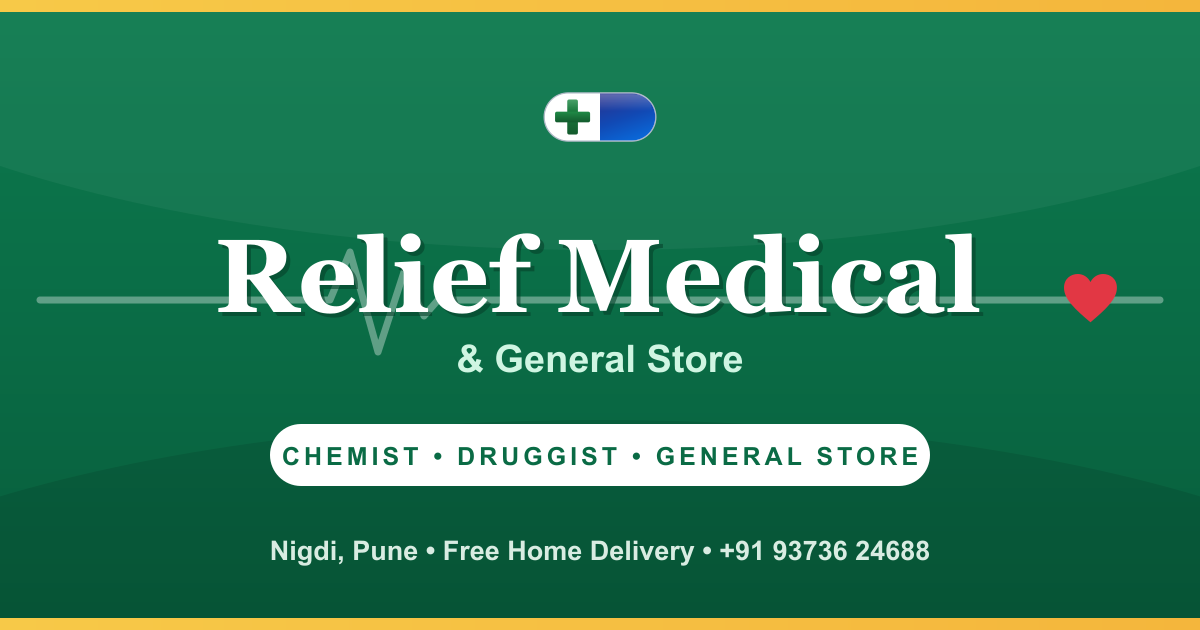
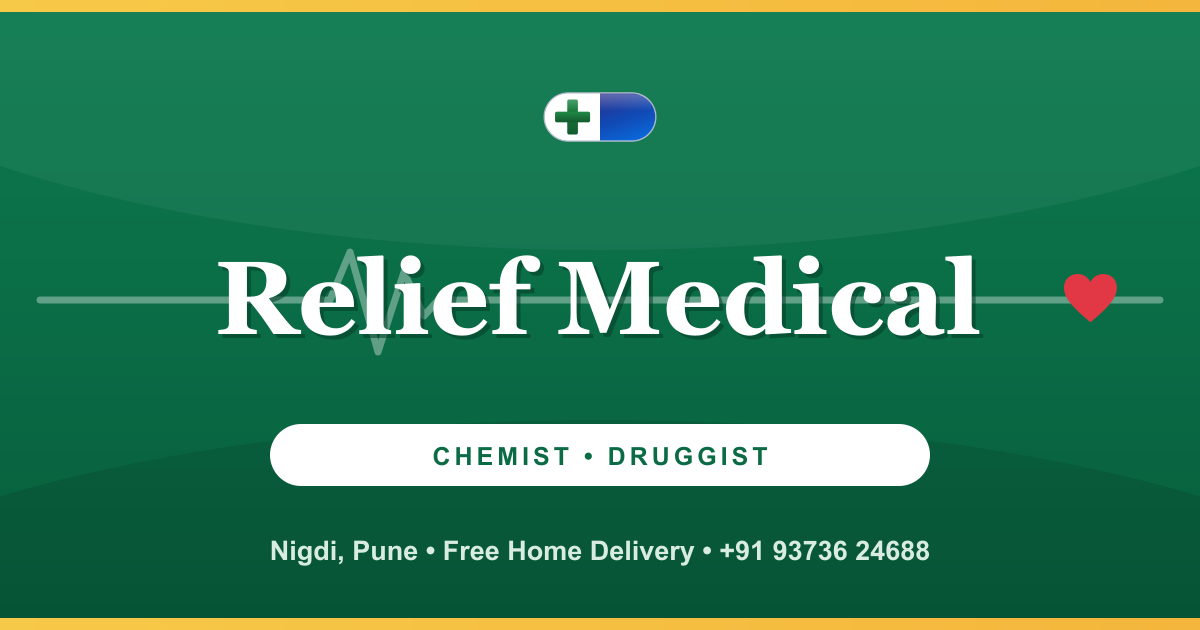
Drop General Store from name; sharpen SEO subtitle
Client feedback: business name should read as just "Relief Medical"
everywhere, not "Relief Medical & General Store".

- BUSINESS.name/fullName now just "Relief Medical"; tagline trimmed
  to "Chemist • Druggist"; removed the now-unused nameSuffix field
- FrontCard: dropped the empty suffix line under the hero name and
  tightened the spacing to the divider so nothing looks gappy
- index.html: title, description, OG/Twitter tags and JSON-LD all
  updated; title/description rewritten into a proper sentence
  ("Relief Medical | Trusted Chemist & Druggist in Nigdi, Pune")
  instead of the old "Nigdi Pune" fragment; Maps query string
  simplified to match the new name
- vite.config.js PWA manifest name/description updated
- scripts/gen-icons.mjs: removed the "& General Store" / "GENERAL
  STORE" text baked into the OG banner artwork, recentered the title;
  regenerated public/og-image.png and all icons from the new SVG
- README updated to match

Changed region(s): [[0.185, 0.3619, 0.8325, 0.6032], [0.2467, 0.6937, 0.7708, 0.754]]

diff --git a/index.html b/index.html
@@ -6,43 +6,43 @@
     <meta name="theme-color" content="#2E3192" />
 
     <!-- ================= SEO ================= -->
-    <title>Relief Medical & General Store | Nigdi Pune</title>
+    <title>Relief Medical | Trusted Chemist & Druggist in Nigdi, Pune</title>
     <meta
       name="description"
-      content="Trusted Chemist, Druggist & General Store in Nigdi, Pune offering genuine medicines, healthcare products, baby care, cosmetics and free home delivery."
+      content="Relief Medical is a trusted chemist and druggist in Nigdi, Pune, offering genuine medicines, healthcare products, baby care, cosmetics and free home delivery."
     />
     <meta
       name="keywords"
       content="chemist Nigdi, medical store Pune, pharmacy Pradhikaran, druggist Nigdi, medicines home delivery Pune, Relief Medical, Relief Medical Business Card"
     />
-    <meta name="author" content="Relief Medical & General Store" />
+    <meta name="author" content="Relief Medical" />
     <link rel="canonical" href="https://www.reliefmedicalbusinesscard.com/" />
 
     <!-- OpenGraph -->
     <meta property="og:type" content="business.business" />
     <meta property="og:url" content="https://www.reliefmedicalbusinesscard.com/" />
-    <meta property="og:title" content="Relief Medical & General Store | Nigdi Pune" />
+    <meta property="og:title" content="Relief Medical | Trusted Chemist & Druggist in Nigdi, Pune" />
     <meta
       property="og:description"
-      content="Trusted Chemist, Druggist & General Store in Nigdi, Pune offering genuine medicines, healthcare products, baby care, cosmetics and free home delivery."
+      content="Relief Medical is a trusted chemist and druggist in Nigdi, Pune, offering genuine medicines, healthcare products, baby care, cosmetics and free home delivery."
     />
     <meta property="og:image" content="https://www.reliefmedicalbusinesscard.com/og-image.png" />
     <meta property="og:image:width" content="1200" />
     <meta property="og:image:height" content="630" />
-    <meta property="og:image:alt" content="Relief Medical & General Store — Chemist, Druggist & General Store, Nigdi Pune" />
+    <meta property="og:image:alt" content="Relief Medical — Trusted Chemist & Druggist, Nigdi Pune" />
     <meta property="og:locale" content="en_IN" />
-    <meta property="og:site_name" content="Relief Medical & General Store" />
+    <meta property="og:site_name" content="Relief Medical" />
 
     <!-- Twitter -->
     <meta name="twitter:card" content="summary_large_image" />
     <meta name="twitter:url" content="https://www.reliefmedicalbusinesscard.com/" />
-    <meta name="twitter:title" content="Relief Medical & General Store | Nigdi Pune" />
+    <meta name="twitter:title" content="Relief Medical | Trusted Chemist & Druggist in Nigdi, Pune" />
     <meta
       name="twitter:description"
-      content="Trusted Chemist, Druggist & General Store in Nigdi, Pune — genuine medicines, healthcare, baby care, cosmetics & free home delivery."
+      content="Relief Medical is a trusted chemist and druggist in Nigdi, Pune — genuine medicines, healthcare, baby care, cosmetics & free home delivery."
     />
     <meta name="twitter:image" content="https://www.reliefmedicalbusinesscard.com/og-image.png" />
-    <meta name="twitter:image:alt" content="Relief Medical & General Store — Chemist, Druggist & General Store, Nigdi Pune" />
+    <meta name="twitter:image:alt" content="Relief Medical — Trusted Chemist & Druggist, Nigdi Pune" />
     <meta name="robots" content="index, follow" />
 
     <!-- Structured Data — Pharmacy is a MedicalBusiness which is a LocalBusiness -->
@@ -50,9 +50,9 @@
       {
         "@context": "https://schema.org",
         "@type": ["Pharmacy", "MedicalBusiness", "LocalBusiness"],
-        "name": "Relief Medical & General Store",
+        "name": "Relief Medical",
         "url": "https://www.reliefmedicalbusinesscard.com/",
-        "description": "Trusted Chemist, Druggist & General Store in Nigdi, Pune offering genuine medicines, healthcare products, baby care, cosmetics and free home delivery.",
+        "description": "Relief Medical is a trusted chemist and druggist in Nigdi, Pune, offering genuine medicines, healthcare products, baby care, cosmetics and free home delivery.",
         "image": "https://www.reliefmedicalbusinesscard.com/og-image.png",
         "logo": "https://www.reliefmedicalbusinesscard.com/icons/icon-512.png",
         "telephone": "+919373624688",
@@ -70,7 +70,7 @@
           "postalCode": "411044",
           "addressCountry": "IN"
         },
-        "hasMap": "https://www.google.com/maps/search/?api=1&query=Relief%20Medical%20%26%20General%20Store%2C%20Nigdi%2C%20Pune",
+        "hasMap": "https://www.google.com/maps/search/?api=1&query=Relief%20Medical%2C%20Nigdi%2C%20Pune",
         "keywords": "Prescription Medicines, OTC Medicines, Healthcare Products, Baby Care, Personal Care, Cosmetics, Free Home Delivery"
       }
     </script>

diff --git a/src/data/siteData.js b/src/data/siteData.js
@@ -1,13 +1,12 @@
 // ============================================================
-//  RELIEF MEDICAL & GENERAL STORE — SITE DATA
+//  RELIEF MEDICAL — SITE DATA
 //  Edit everything here. Nothing is hardcoded elsewhere.
 // ============================================================
 
 export const BUSINESS = {
   name: 'Relief Medical',
-  nameSuffix: '& General Store',
-  fullName: 'Relief Medical & General Store',
-  tagline: 'Chemist • Druggist • General Store',
+  fullName: 'Relief Medical',
+  tagline: 'Chemist • Druggist',
   blurb:
     'Your trusted neighbourhood pharmacy in Nigdi — genuine medicines, healthcare essentials and free home delivery.',
   logo: '/logo.svg', // drop a client HD logo into /public and update this path
@@ -41,7 +40,7 @@ export const LOCATION = {
   short: 'Nigdi, Pune 411044',
   mapsUrl:
     'https://www.google.com/maps/search/?api=1&query=' +
-    encodeURIComponent('Relief Medical & General Store, Nigdi, Pune'),
+    encodeURIComponent('Relief Medical, Nigdi, Pune'),
 }
 
 

diff --git a/src/components/FrontCard.jsx b/src/components/FrontCard.jsx
@@ -106,12 +106,9 @@ export default function FrontCard({ onFlip, onLogoClick }) {
         >
           {BUSINESS.name}
         </h1>
-        <p className="font-display mt-0.5 text-[15px] font-semibold tracking-wide text-cyan-100">
-          {BUSINESS.nameSuffix}
-        </p>
 
         {/* elegant divider + tagline */}
-        <div className="mt-2.5 flex items-center gap-2.5">
+        <div className="mt-3 flex items-center gap-2.5">
           <span className="h-px w-9 bg-gradient-to-r from-transparent to-white/70" />
           <span className="whitespace-nowrap text-[9.5px] font-semibold uppercase tracking-[0.16em] text-emerald-100">
             {BUSINESS.tagline}

diff --git a/vite.config.js b/vite.config.js
@@ -15,10 +15,10 @@ export default defineConfig({
         'icons/favicon-48.png',
       ],
       manifest: {
-        name: 'Relief Medical & General Store — Digital Card',
+        name: 'Relief Medical — Digital Card',
         short_name: 'Relief Medical',
         description:
-          'Relief Medical & General Store, Nigdi Pune — trusted chemist, druggist & general store. Genuine medicines, healthcare products and free home delivery.',
+          'Relief Medical, Nigdi Pune — trusted chemist & druggist. Genuine medicines, healthcare products and free home delivery.',
         id: '/',
         start_url: '/',
         scope: '/',

diff --git a/README.md b/README.md
@@ -1,7 +1,7 @@
-# Relief Medical & General Store — Digital Business Card
+# Relief Medical — Digital Business Card
 
-Premium flip-style digital business card (PWA) for **Relief Medical & General Store**, Nigdi, Pune.
-Owner: **Ganesh H. Sirvi** · Chemist • Druggist • General Store
+Premium flip-style digital business card (PWA) for **Relief Medical**, Nigdi, Pune.
+Owner: **Ganesh H. Sirvi** · Chemist • Druggist
 
 ## Stack
 
